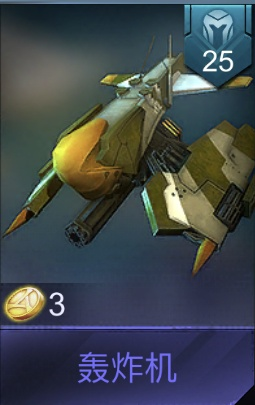
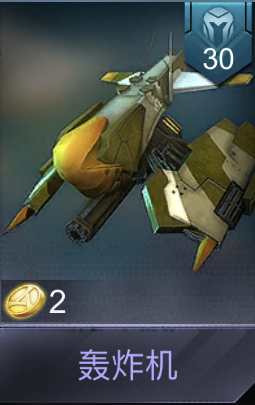
更新属性

diff --git a/scripts/item.js b/scripts/item.js
@@ -203,7 +203,7 @@ obj={
         "支援"
     ],
     ability: {									// 技能
-        description: "工程机持续强化一个距离自己最远的友军，大幅提升其攻击力，仅能伤害，友军被强化期间不会死亡。",		// 技能描述
+        description: "工程机持续强化一个距离自己最远的友军，大幅提升其攻击力，技能伤害和攻击速度，友军被强化期间每秒回复一定能量且不会死亡。",		// 技能描述
         damage: [300, 500, 700]					// 技能伤害
     },
     property: {									// 兵种属性
@@ -793,6 +793,43 @@ obj={
     }
 },
 
+"轰炸机": {
+    name: "轰炸机",								// 名称
+    cost: 2,									// 花费
+    image: [									// 图片
+        "pictures/轰炸机.jpg"
+    ],
+    feature: [									// 特征
+        "技能伤害"
+    ],
+    nature: [									// 连携
+        "空军",
+        "爆破"
+    ],
+    ability: {									// 技能
+        description: "轰炸机对目标区域进行连续宏站，对半径7的圆形区域内造成对此伤害，轰炸期间提升自身50点护甲。",		// 技能描述
+        damage: [350, 550, 850]					// 技能伤害
+    },
+    property: {									// 兵种属性
+        attack: {								// 攻击
+            min_damage: [28, 56, 112],			// 最小攻击
+            max_damage: [35, 70, 141],		// 最大攻击
+            reduce_armor: [0, 0, 0],			// 护甲削弱
+            ability_damage: [0, 0, 0],			// 技能伤害 (%)
+            critical_strike: [0, 0, 0],			// 暴击 (%)
+            blood_sucking: [0, 0, 0],			// 吸血 (%)
+            speed: 1.5
+        },
+        defense: {								// 防御
+            health: [450, 900, 1800],			// 生命
+            Armor: [5, 5, 5],					// 护甲
+            ability_defense: [0, 0, 0],			// 技能防御
+            miss: [0, 0, 0],					// 闪避 (%)
+            health_recovery: [0, 0, 0]			// 生命恢复
+        }
+    }
+},
+
 "蝙蝠": {
     name: "蝙蝠",								// 名称
     cost: 2,									// 花费
@@ -1128,42 +1165,7 @@ obj={
     }
 },
 
-"轰炸机": {
-    name: "轰炸机",								// 名称
-    cost: 3,									// 花费
-    image: [									// 图片
-        "pictures/轰炸机.jpg"
-    ],
-    feature: [									// 特征
-        "技能伤害"
-    ],
-    nature: [									// 连携
-        "空军",
-        "爆破"
-    ],
-    ability: {									// 技能
-        description: "轰炸机对目标区域进行连续宏站，对半径7的圆形区域内造成对此伤害，轰炸期间提升自身50点护甲。",		// 技能描述
-        damage: [300, 450, 600]					// 技能伤害
-    },
-    property: {									// 兵种属性
-        attack: {								// 攻击
-            min_damage: [41, 82, 166],			// 最小攻击
-            max_damage: [46, 92, 184],		// 最大攻击
-            reduce_armor: [0, 0, 0],			// 护甲削弱
-            ability_damage: [0, 0, 0],			// 技能伤害 (%)
-            critical_strike: [0, 0, 0],			// 暴击 (%)
-            blood_sucking: [0, 0, 0],			// 吸血 (%)
-            speed: 2.0
-        },
-        defense: {								// 防御
-            health: [400, 800, 1600],			// 生命
-            Armor: [5, 5, 5],					// 护甲
-            ability_defense: [0, 0, 0],			// 技能防御
-            miss: [0, 0, 0],					// 闪避 (%)
-            health_recovery: [0, 0, 0]			// 生命恢复
-        }
-    }
-},
+
 
 
 
@@ -1196,6 +1198,46 @@ obj={
         },
         defense: {								// 防御
             health: [450, 900, 1800],			// 生命
+            Armor: [5, 5, 5],					// 护甲
+            ability_defense: [0, 0, 0],			// 技能防御
+            miss: [0, 0, 0],					// 闪避 (%)
+            health_recovery: [0, 0, 0]			// 生命恢复
+        }
+    }
+},
+
+
+
+"勾魂使": {
+    name: "勾魂使",								// 名称
+    cost: 3,									// 花费
+    image: [									// 图片
+        "pictures/勾魂使.jpg"
+    ],
+    feature: [									// 特征
+        "技能伤害",
+        "真实伤害"
+    ],
+    nature: [									// 连携
+        "不朽者",
+        "刺杀"
+    ],
+    ability: {									// 技能
+        description: "勾魂使闪现至敌人身后，用弯刀对敌人进行一次处决，造成单次技能伤害",		// 技能描述
+        damage: [300, 500, 700]					// 技能伤害
+    },
+    property: {									// 兵种属性
+        attack: {								// 攻击
+            min_damage: [49, 198, 196],			// 最小攻击
+            max_damage: [63, 126, 252],		// 最大攻击
+            reduce_armor: [0, 0, 0],			// 护甲削弱
+            ability_damage: [0, 0, 0],			// 技能伤害 (%)
+            critical_strike: [0, 0, 0],			// 暴击 (%)
+            blood_sucking: [0, 0, 0],			// 吸血 (%)
+            speed: 1.1
+        },
+        defense: {								// 防御
+            health: [550, 1100, 2200],			// 生命
             Armor: [5, 5, 5],					// 护甲
             ability_defense: [0, 0, 0],			// 技能防御
             miss: [0, 0, 0],					// 闪避 (%)
@@ -1707,7 +1749,7 @@ obj={
     ],
     ability: {									// 技能
         description: "聚能方舟指挥机群轰炸指定区域，对路径上的敌人造成伤害",		// 技能描述
-        damage: [250, 400, 550]					// 技能伤害
+        damage: [300, 450, 600]					// 技能伤害
     },
     property: {									// 兵种属性
         attack: {								// 攻击
